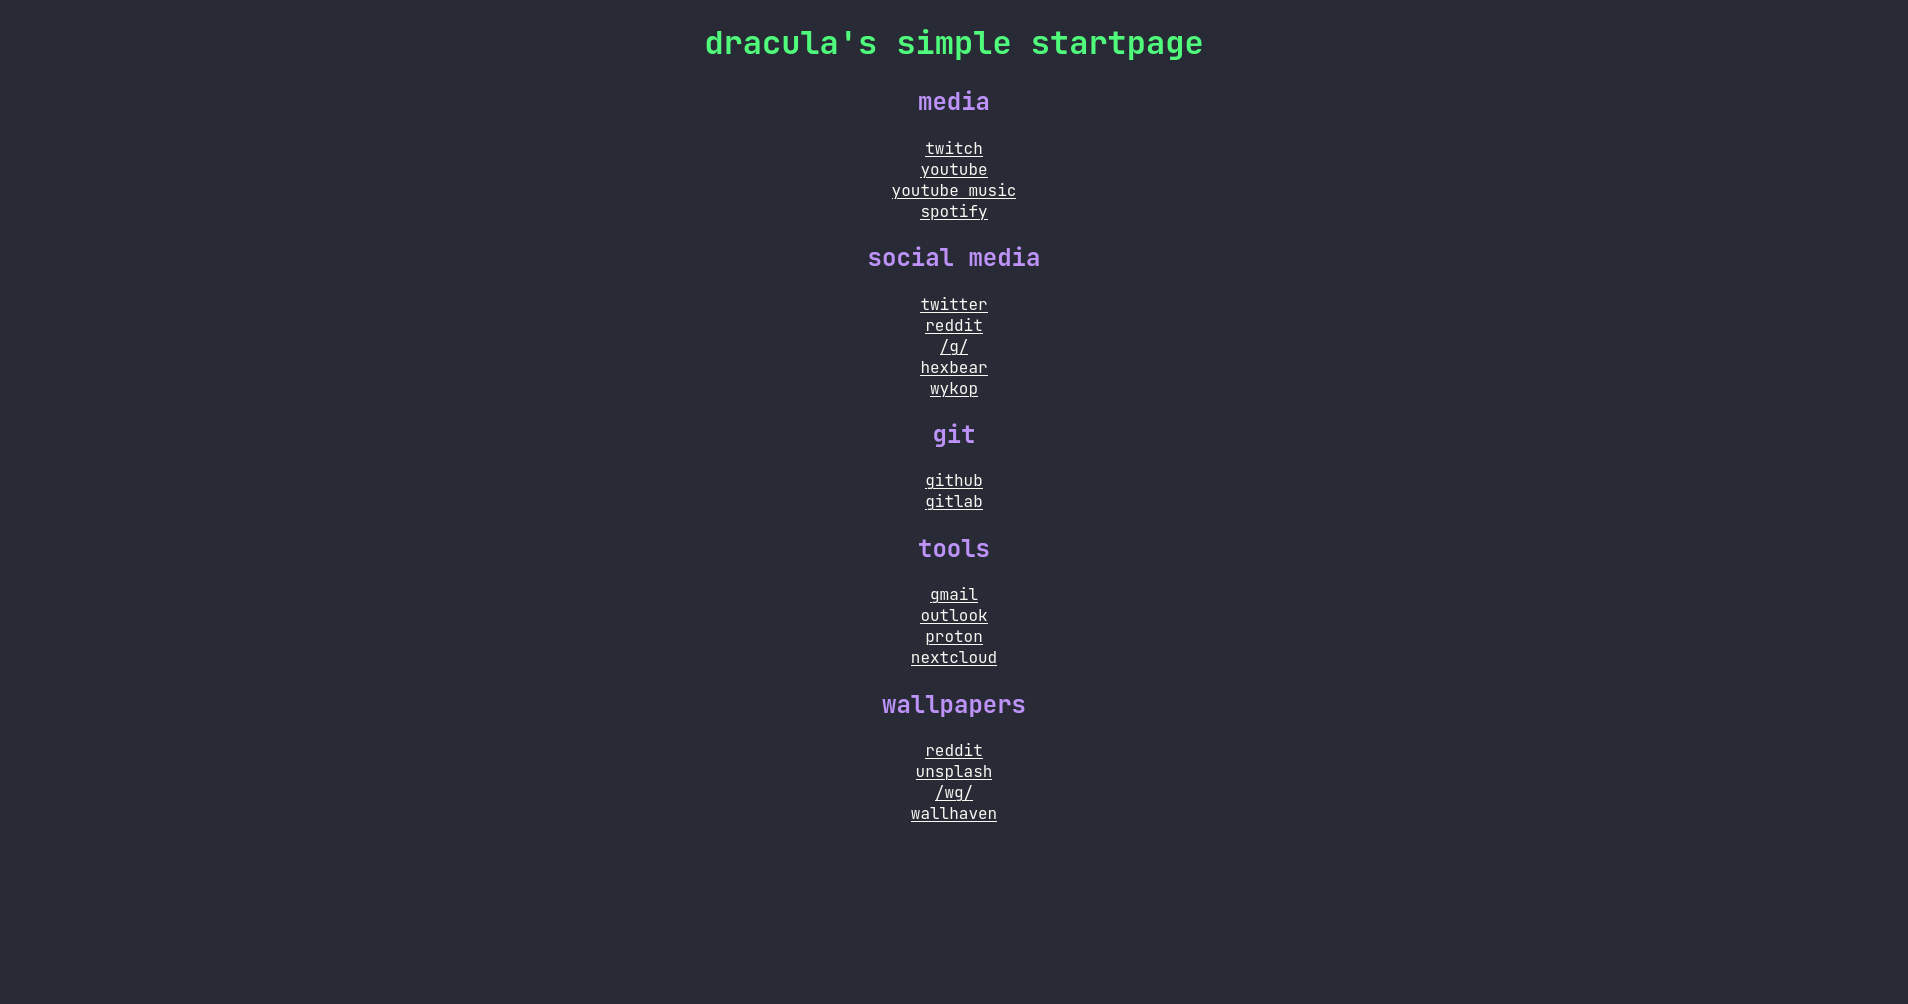
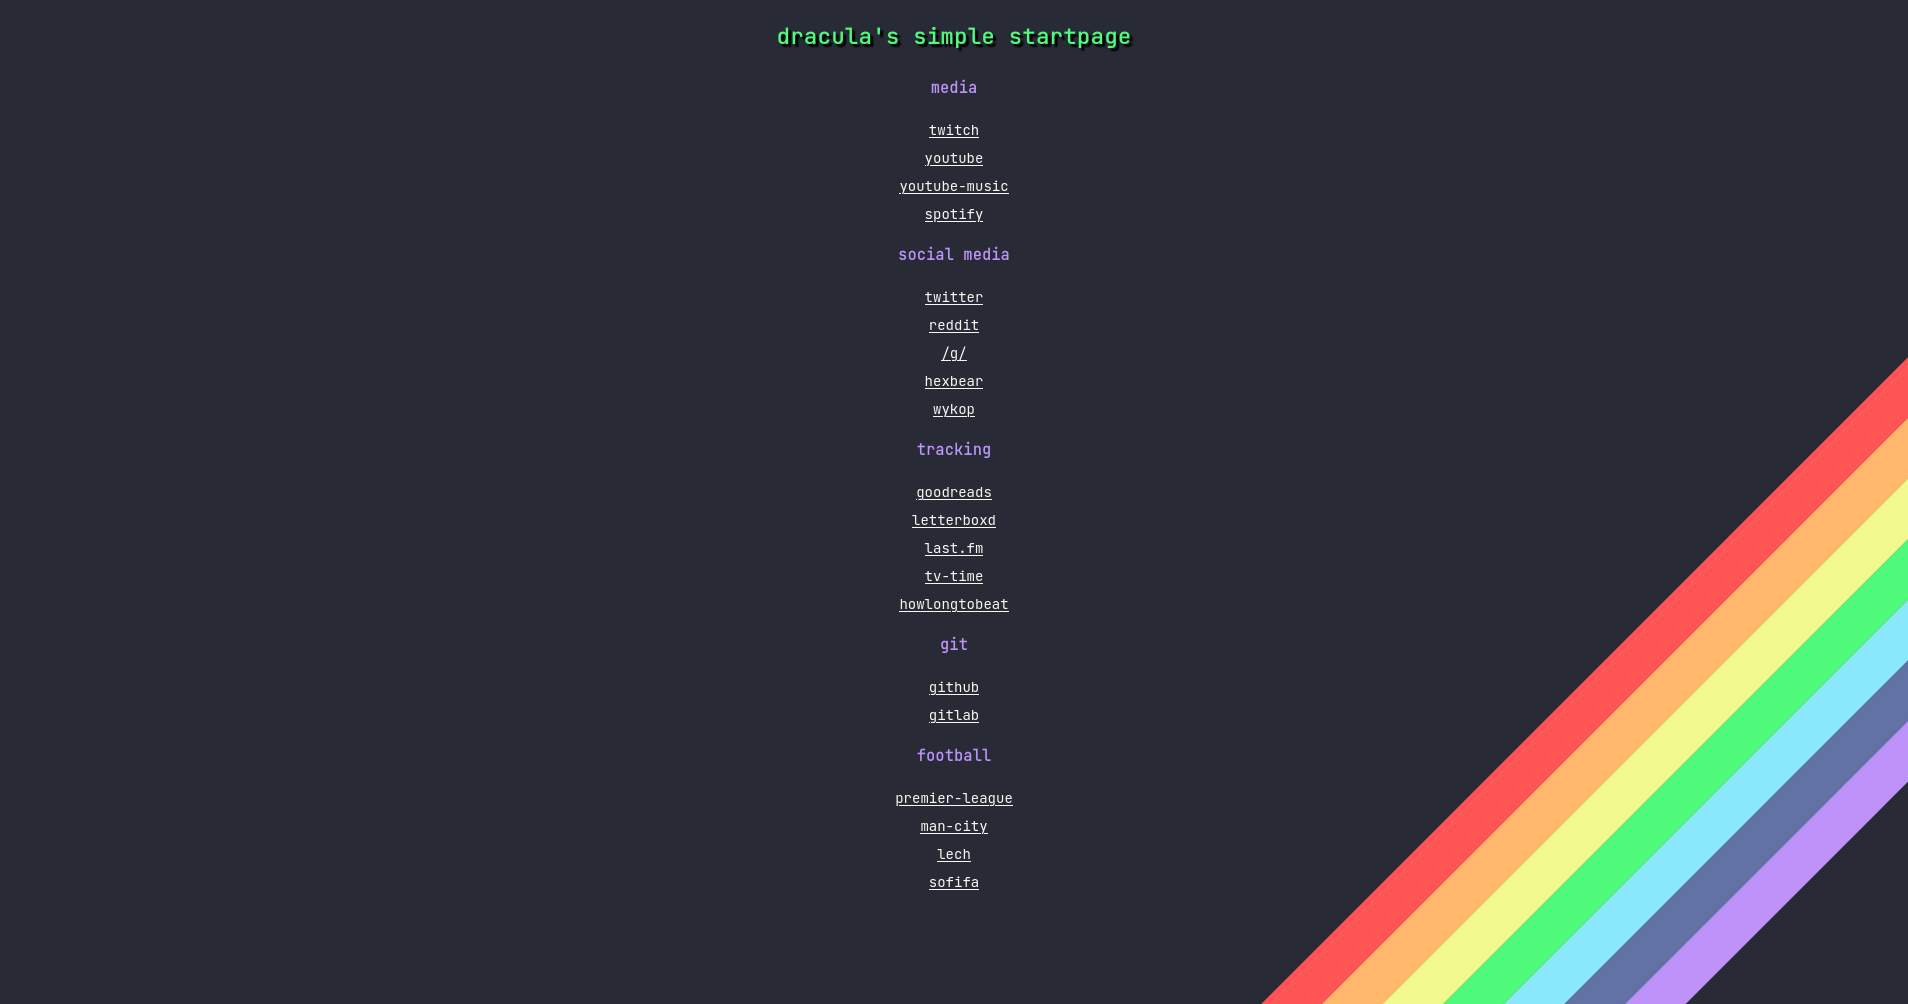
Add files via upload

diff --git a/index.html b/index.html
@@ -4,64 +4,65 @@
   <head>
      <meta charset="utf-8"; name="viewport"; content="width=device-width, initial-scale=1.0">
      <title>dracula's simple startpage</title>
-     <style>
-       ul {
-            list-style-type: none;
-            margin: 0;
-            padding: 0;
-       }
-     </style>
      <link rel="preconnect" href="https://fonts.googleapis.com">
      <link rel="preconnect" href="https://fonts.gstatic.com" crossorigin>
      <link href="https://fonts.googleapis.com/css2?family=JetBrains+Mono&display=swap" rel="stylesheet">
+     <link href="assets/style.css" rel="stylesheet" />
+     <style>
+       body {
+            background-image: url('assets/background.jpg');
+            background-repeat: no-repeat;
+            background-attachment: fixed;
+            background-size: cover;
+            }
+     </style>
   </head>
 
-  <body style="background-color:#282a36; color:#f8f8f2; font-size:16px;">
+  <body>
     <center>
 
-     <h1 style="color:#50FA7B">dracula's simple startpage</h1>
+     <h1>dracula's simple startpage</h1>
 
-     <h2 style="color:#BD93F9">media</h2>
+     <h2>media</h2>
      <ul>
-       <li><a href="https://twitch.tv" style="color:#F8F8F2">twitch</a></li>
-       <li><a href="https://www.youtube.com/" style="color:#F8F8F2">youtube</a></li>
-       <li><a href="https://music.youtube.com/" style="color:#F8F8F2">youtube-music</a></li>
-       <li><a href="https://open.spotify.com/" style="color:#F8F8F2">spotify</a></li>
+       <li><a href="https://twitch.tv">twitch</a></li>
+       <li><a href="https://www.youtube.com/">youtube</a></li>
+       <li><a href="https://music.youtube.com/">youtube-music</a></li>
+       <li><a href="https://open.spotify.com/">spotify</a></li>
      </ul>
 
-     <h2 style="color:#BD93F9">social media</h2>
+     <h2>social media</h2>
      <ul>
-       <li><a href="https://twitter.com/home" style="color:#F8F8F2">twitter</a></li>
-       <li><a href="https://www.reddit.com/" style="color:#F8F8F2">reddit</a></li>
-       <li><a href="https://boards.4channel.org/g/" style="color:#F8F8F2">/g/</a></li>
-       <li><a href="https://www.hexbear.net/home/data_type/post/listing_type/all/sort/active/page/1" style="color:#F8F8F2">hexbear</a></li>
-       <li><a href="https://www.wykop.pl/mikroblog/hot/ostatnie/24/" style="color:#F8F8F2">wykop</a></li>
+       <li><a href="https://twitter.com/home">twitter</a></li>
+       <li><a href="https://www.reddit.com/">reddit</a></li>
+       <li><a href="https://boards.4channel.org/g/">/g/</a></li>
+       <li><a href="https://www.hexbear.net/home/data_type/post/listing_type/all/sort/active/page/1">hexbear</a></li>
+       <li><a href="https://www.wykop.pl/mikroblog/hot/ostatnie/24/">wykop</a></li>
      </ul>
 
-     <h2 style="color:#BD93F9">tracking</h2>
+     <h2>tracking</h2>
      <ul>
-       <li><a href="https://www.goodreads.com/" style="color:#F8F8F2">goodreads</a></li>
-       <li><a href="https://letterboxd.com/" style="color:#F8F8F2">letterboxd</a></li>
-       <li><a href="https://www.last.fm/" style="color:#F8F8F2">last.fm</a></li>
-       <li><a href="https://www.tvtime.com/en" style="color:#F8F8F2">tv-time</a></li>
-       <li><a href="https://howlongtobeat.com/" style="color:#F8F8F2">howlongtobeat</a></li>
+       <li><a href="https://www.goodreads.com/">goodreads</a></li>
+       <li><a href="https://letterboxd.com/">letterboxd</a></li>
+       <li><a href="https://www.last.fm/">last.fm</a></li>
+       <li><a href="https://www.tvtime.com/en">tv-time</a></li>
+       <li><a href="https://howlongtobeat.com/">howlongtobeat</a></li>
      </ul>
 
-     <h2 style="color:#BD93F9">git</h2>
+     <h2>git</h2>
      <ul>
-       <li><a href="https://github.com/ch1ebak" style="color:#F8F8F2">github</a></li>
-       <li><a href="https://gitlab.com/ch1ebak" style="color:#F8F8F2">gitlab</a></li>
+       <li><a href="https://github.com/ch1ebak">github</a></li>
+       <li><a href="https://gitlab.com/ch1ebak">gitlab</a></li>
      </ul>
 
-     <h2 style="color:#BD93F9">football</h2>
+     <h2>football</h2>
      <ul>
-       <li><a href="https://www.premierleague.com/tables" style="color:#F8F8F2">premier-league</a></li>
-       <li><a href="https://www.sofascore.com/team/football/manchester-city/17" style="color:#F8F8F2">man-city</a></li>
-       <li><a href="https://www.sofascore.com/team/football/lech-poznan/3121" style="color:#F8F8F2">lech</a></li>
-       <li><a href="https://sofifa.com/?r=220069&set=true" style="color:#F8F8F2">sofifa</a></li>
+       <li><a href="https://www.premierleague.com/tables">premier-league</a></li>
+       <li><a href="https://www.sofascore.com/team/football/manchester-city/17">man-city</a></li>
+       <li><a href="https://www.sofascore.com/team/football/lech-poznan/3121">lech</a></li>
+       <li><a href="https://sofifa.com/?r=220069&set=true">sofifa</a></li>
      </ul>
 
-     </ul>
     </center>
   </body>
 

diff --git a/assets/style.css b/assets/style.css
@@ -1,0 +1,41 @@
+html {
+  /* background-color: #282a36; */
+  color:#f8f8f2
+  font-size: 16px; /* px means "pixels": the base font size is now 10 pixels high */
+  font-family: "JetBrains Mono", sans-serif; /* this should be the rest of the output you got from Google Fonts */
+}
+
+body {
+  margin: 0 auto;
+  /* background-color: #282a36; */
+  padding: 0 20px 20px 20px;
+}
+
+h1 {
+  font-size: 22px;
+  color:#50FA7B;
+  line-height: 2;
+  margin: 1;
+  padding: 0;
+  text-shadow: 3px 3px 1px black;
+}
+
+h2 {
+  font-size: 15px;
+  color:#BD93F9;
+  line-height: 2;
+  margin: 1;
+  padding: 0;
+}
+
+ul,
+p,
+a,
+li {
+  font-size: 14px;
+  color:#F8F8F2;
+  line-height: 2;
+  margin: 0;
+  padding: 0;
+  list-style-type: none;
+}
